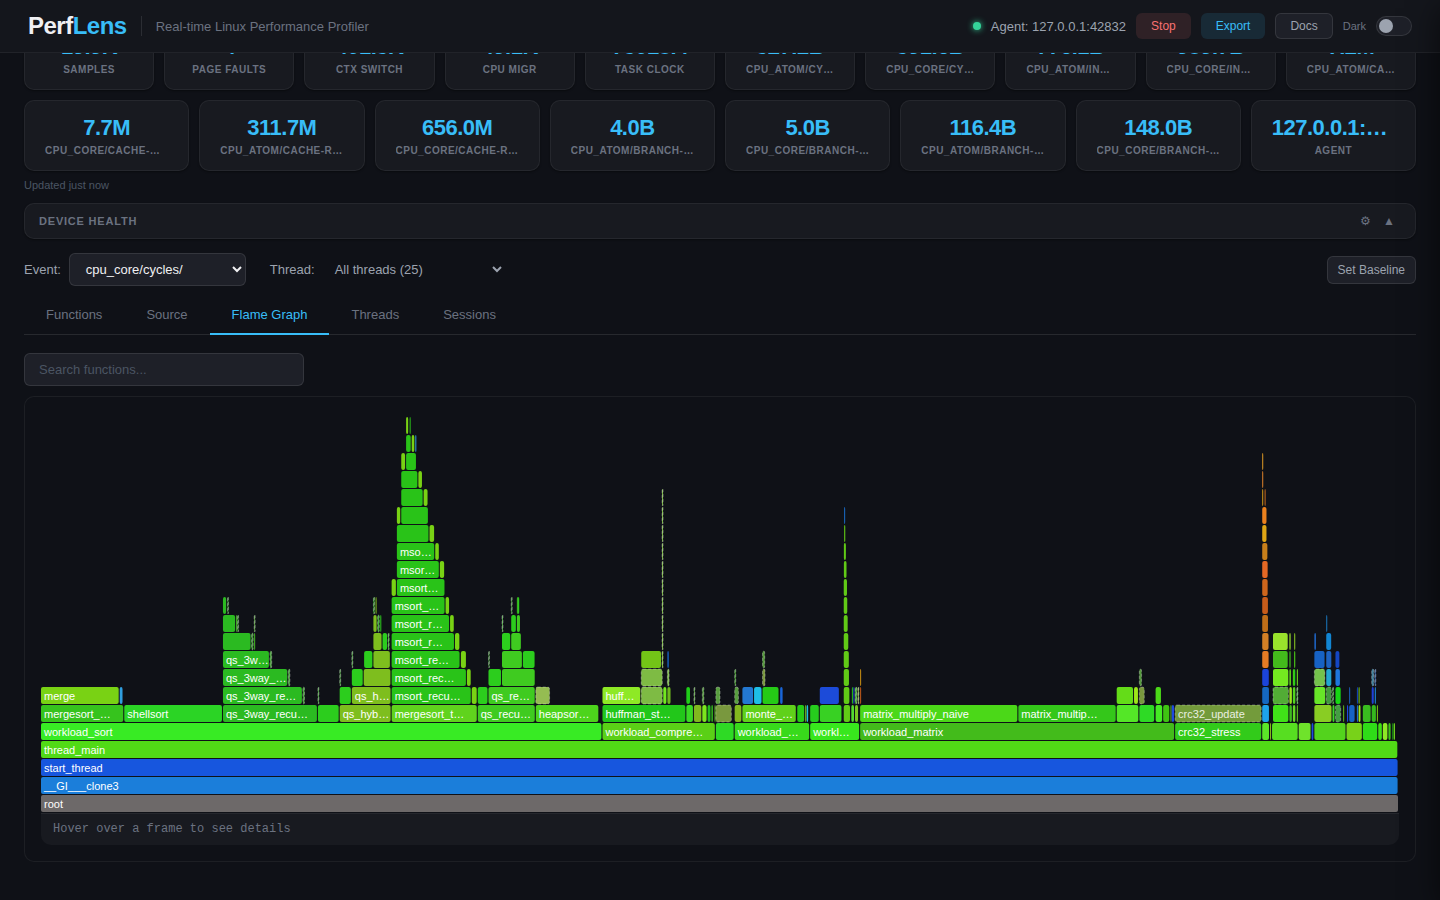
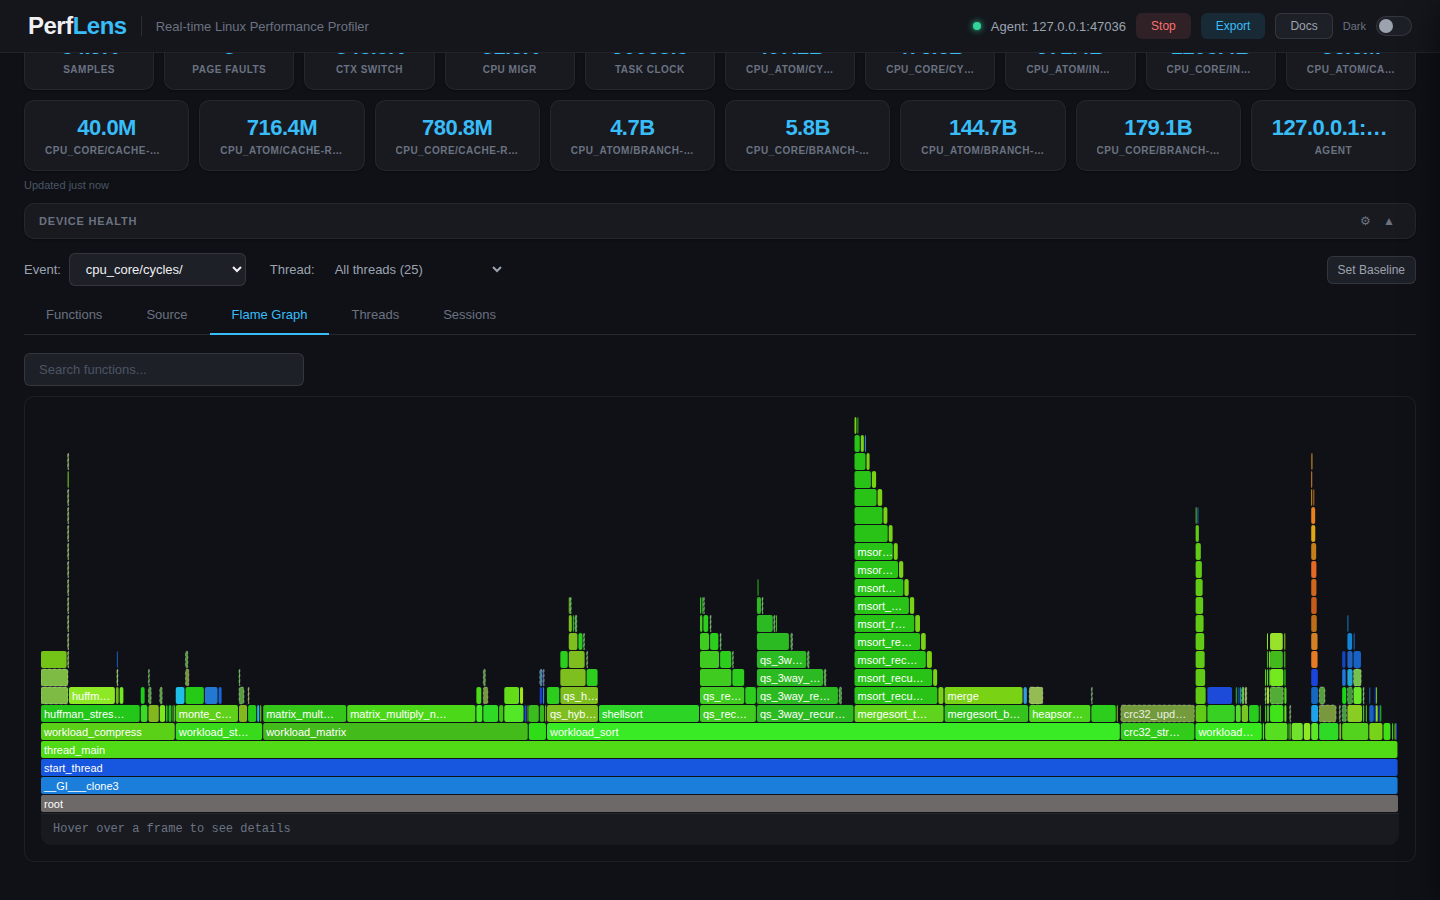
release: 0.11.0
The big-endian validation pass, server-side naming of frames the target's
perf cannot symbolize, --perf for a perf outside PATH, consistent event
resolution across views and exports, and the fixes found along the way.

- Version 0.11.0 in all seven locations; agent rebuilt, OpenAPI regenerated.
- CHANGELOG dated, with an upgrading note: views and exports that render one
  event now require `event` when a profile holds several.
- SECURITY.md: refusing legacy hello tokens moves from 0.11.0 to 0.12.0,
  because pre-0.10.0 agents are still downloadable from earlier releases.
- Docs screenshots regenerated with both halves (replay, then a live capture
  on a hybrid machine) and the demo GIF re-encoded. Each changed image was
  looked at before committing.

diff --git a/src/perflens/__init__.py b/src/perflens/__init__.py
@@ -5,4 +5,4 @@ samples over TCP; this package is the receiving server: parsing,
 aggregation, source mapping, and the browser UI.
 """
 
-__version__ = '0.10.0'
+__version__ = '0.11.0'

diff --git a/CHANGELOG.md b/CHANGELOG.md
@@ -5,13 +5,22 @@ All notable changes to PerfLens are recorded here. Format follows
 uses [Semantic Versioning](https://semver.org/spec/v2.0.0.html); pre-1.0
 releases may break APIs between minor versions when needed.
 
-## [Unreleased]
+## [0.11.0] — 2026-09-13
 
 First hands-on validation on **big-endian** hardware — a big-endian ARMv7
 embedded target (`armv7b`, single-core, kernel 4.4, no hardware PMU,
 no SSH, no internet from the device).
 Byte order turned out to be correct all along; the build flags and the
-capability probe were not.
+capability probe were not. Out of that pass came server-side naming of frames
+the target's `perf` cannot symbolize, and a way to point the agent at a `perf`
+that is not on `PATH`.
+
+**Upgrading — read this first.** Views that render a single event — the
+`collapsed` and `svg` exports, `/api/threads`, `/api/threads/<tid>`,
+`/api/window` and `/api/source` — now require `event` when a profile holds
+several, and answer 400 `ambiguous_event` naming the choices instead of merging
+them. The UI and the MCP tools already send one; scripts calling the API
+directly may need to.
 
 ### Added
 
@@ -85,7 +94,10 @@ capability probe were not.
   capture yields ~10 frames per sample through a file and one leaf frame
   through `record -o - | script -i -`. The probe accepted any non-empty
   output, so pipe mode was chosen and every flame graph collapsed to a single
-  level with no error reported. The probe now verifies call chains survive.
+  level with no error reported. The probe now verifies call chains survive —
+  by their indented frame lines rather than by event name, so the
+  PMU-qualified names a hybrid CPU prints (`cpu_core/cycles/`) do not switch
+  continuous mode off.
 - **`--toolchain-prefix` silently used the host `addr2line`.** The check was
   `os.path.isfile()`, which is False for the bare relative name the flag
   documents, so the cross tool was replaced by the host's and logged only as

diff --git a/SECURITY.md b/SECURITY.md
@@ -60,7 +60,7 @@ The code is per agent start. Restarting the agent rotates it.
 
 ```
 agent → server  flag 3   {"type":"hello","version":1,"auth":"token",
-                          "agent_version":"0.10.0","platform":{...}}
+                          "agent_version":"0.11.0","platform":{...}}
 
 server → agent  flag 2   {"id":"<hex12>","cmd":"auth","args":{"token":"<code>"}}
 
@@ -173,8 +173,12 @@ token, so an older server configured with `--token` will reject it.
 | Version | Change |
 |---------|--------|
 | 0.10.0  | Pairing-code authentication. Legacy hello tokens accepted with a warning. |
-| 0.11.0  | Legacy hello tokens refused when the server has a token configured. |
+| 0.11.0  | No authentication change. Legacy hello tokens still accepted with a warning. |
+| 0.12.0  | Legacy hello tokens refused when the server has a token configured. |
 | 1.0.0   | A pairing code is required for both `--listen` and `--server`; only headless `--output` runs without one. |
+
+Refusing legacy tokens moved from 0.11.0 to 0.12.0: pre-0.10.0 agents are still
+downloadable from earlier releases, so they get one more release of warnings.
 
 ## Supported versions
 

diff --git a/CLAUDE.md b/CLAUDE.md
@@ -12,10 +12,10 @@ tracked tree only: device addresses remain in commits before 2026-08-13, and
 [STATUS.md](STATUS.md) records the deliberate decision not to rewrite
 history over them.
 
-**Status: 0.10.0 released 2026-08-15** (tag, GitHub release and PyPI).
-Unreleased since: the big-endian validation pass and server-side naming of
-frames the target's `perf` cannot symbolize — see [STATUS.md](STATUS.md) for
-what is open.
+**Status: 0.11.0 released 2026-09-13** (tag, GitHub release and PyPI): the
+big-endian validation pass, server-side naming of frames the target's `perf`
+cannot symbolize, `--perf` for a perf outside `PATH`, and consistent `event`
+resolution. See [STATUS.md](STATUS.md) for what is open.
 
 ---
 
